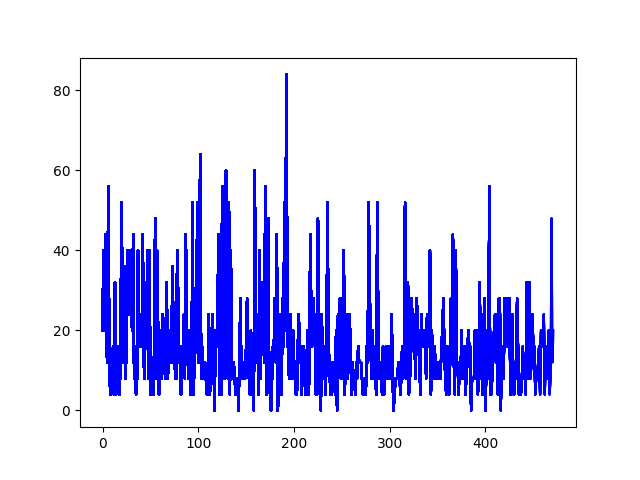
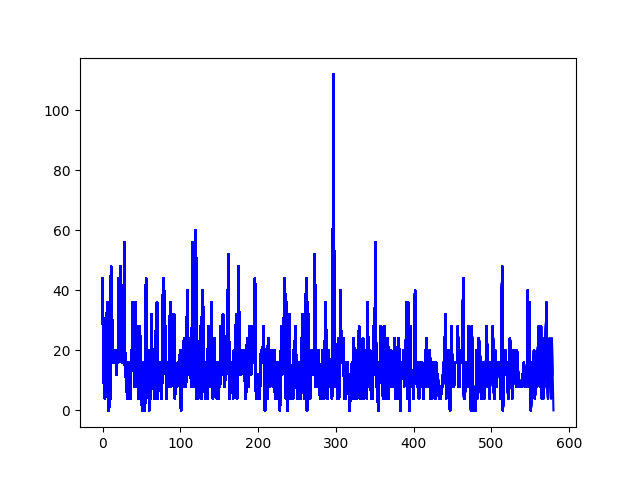
Added more algorithms

diff --git a/rl.py b/rl.py
@@ -1,0 +1,83 @@
+import sys
+import gym
+import pylab
+import numpy as np
+from keras.layers import Dense
+from keras.models import Sequential
+from keras.optimizers import Adam
+
+
+# This is Policy Gradient agent for the Cartpole
+# In this example, we use REINFORCE algorithm which uses monte-carlo update rule
+class REINFORCEAgent:
+    def __init__(self, state_size, action_size):
+        # if you want to see Cartpole learning, then change to True
+        self.render = False
+        self.load_model = False
+        # get size of state and action
+        self.state_size = state_size
+        self.action_size = action_size
+
+        # These are hyper parameters for the Policy Gradient
+        self.discount_factor = 0.99
+        self.learning_rate = 0.001
+        self.hidden1, self.hidden2 = 24, 24
+
+        # create model for policy network
+        self.model = self.build_model()
+
+        # lists for the states, actions and rewards
+        self.states, self.actions, self.rewards = [], [], []
+
+        if self.load_model:
+            self.model.load_weights("./save_model/cartpole_reinforce.h5")
+
+    # approximate policy using Neural Network
+    # state is input and probability of each action is output of network
+    def build_model(self):
+        model = Sequential()
+        model.add(Dense(self.hidden1, input_dim=self.state_size, activation='relu', kernel_initializer='glorot_uniform'))
+        model.add(Dense(self.hidden2, activation='relu', kernel_initializer='glorot_uniform'))
+        model.add(Dense(self.action_size, activation='softmax', kernel_initializer='glorot_uniform'))
+        model.summary()
+        model.compile(loss="categorical_crossentropy", optimizer=Adam(lr=self.learning_rate))
+        return model
+
+    # using the output of policy network, pick action stochastically
+    def get_action(self, state):
+        policy = self.model.predict(state, batch_size=1).flatten()
+        return np.random.choice(self.action_size, 1, p=policy)[0]
+
+    # In Policy Gradient, Q function is not available.
+    # Instead agent uses sample returns for evaluating policy
+    def discount_rewards(self, rewards):
+        discounted_rewards = np.zeros_like(rewards)
+        running_add = 0
+        for t in reversed(range(0, len(rewards))):
+            running_add = running_add * self.discount_factor + rewards[t]
+            discounted_rewards[t] = running_add
+        return discounted_rewards
+
+    # save <s, a ,r> of each step
+    def append_sample(self, state, action, reward):
+        self.states.append(state)
+        self.rewards.append(reward)
+        self.actions.append(action)
+
+    # update policy network every episode
+    def train_model(self):
+        episode_length = len(self.states)
+
+        discounted_rewards = self.discount_rewards(self.rewards)
+        discounted_rewards -= np.mean(discounted_rewards)
+        discounted_rewards /= np.std(discounted_rewards)
+
+        update_inputs = np.zeros((episode_length, self.state_size))
+        advantages = np.zeros((episode_length, self.action_size))
+
+        for i in range(episode_length):
+            update_inputs[i] = self.states[i]
+            advantages[i][self.actions[i]] = discounted_rewards[i]
+
+        self.model.fit(update_inputs, advantages, epochs=1, verbose=0)
+        self.states, self.actions, self.rewards = [], [], []

diff --git a/play.py b/play.py
@@ -1,5 +1,8 @@
 from gamelogic import *
 from ddqn import DoubleDQNAgent
+# from dqn import DQNAgent
+# from ql import QLearningAgent
+# from rl import REINFORCEAgent
 
 from keras.models import Sequential
 from keras.layers import Dense
@@ -38,12 +41,15 @@ if __name__ == "__main__":
 
     state_size = gridSize * gridSize
     action_size = 4
+
     agent = DoubleDQNAgent(state_size, action_size)
 
-    try:
-        agent.model.save_weights("2048_"+str(gridSize)+".h5")
-    except IOError:
-        pass
+    # agent = DoubleDQNAgent(state_size, action_size)
+
+    # try:
+    #     agent.model.save_weights("2048_"+str(gridSize)+".h5")
+    # except IOError:
+    #     pass
 
     done = False
     scores, episodes = [], []
@@ -57,7 +63,10 @@ if __name__ == "__main__":
 
         while True:
             # gameEnv.PrintGrid()
+
             action = agent.get_action(state)
+
+            # action = agent.get_action(state)
             (moveScore, isValid) = gameEnv.Move(action + 1)
 
             next_state = gameEnv.GetFlatGrid()
@@ -65,13 +74,13 @@ if __name__ == "__main__":
 
             if isValid:
                 # Lenth of game award
-                reward = 10.0
+                # reward = 10.0
 
                 # # Rewards for single peak
-                # mat = gameEnv.GetMatrix()
-                # peaks = getPeaks(mat)
-                # if len(peaks) == 1:
-                #     reward += 10.0
+                mat = gameEnv.GetMatrix()
+                peaks = getPeaks(mat)
+                if len(peaks) == 1:
+                    reward += 10.0
         
                 # Reward for step score
                 reward += moveScore
@@ -90,6 +99,7 @@ if __name__ == "__main__":
                 reward = -100.0
 
             agent.append_sample(state, action, reward, next_state, done)
+            # agent.learn(str(state), action, reward, str(next_state))
             agent.train_model()
             state = next_state
 
@@ -103,9 +113,13 @@ if __name__ == "__main__":
                 pylab.plot(episodes, scores, 'b')
                 pylab.savefig("2048_ddqn.png")
 
-                print("episode: {}/{}, score: {}, MaxNumber: {}, memory length: {}, e: {:.2}".format(e, EPISODES, gameEnv.GetScore(), 2**gameEnv.GetMaxNumber(), len(agent.memory), agent.epsilon))
+                # print("episode: {}/{}, score: {}, MaxNumber: {}, memory length: {}, e: {:.2}".format(e, EPISODES, gameEnv.GetScore(), 2**gameEnv.GetMaxNumber(), len(agent.memory), agent.epsilon))
+                print("episode: {}/{}, score: {}, MaxNumber: {}, MemSize {}, e: {:.2}".format(e, EPISODES, gameEnv.GetScore(), 2**gameEnv.GetMaxNumber(), len(agent.memory), agent.epsilon))
                 break
         
-        # save the model
-        if e % 50 == 0:
-            agent.model.save_weights("2048_"+str(gridSize)+".h5")
+        # # save the model
+        # if e % 50 == 0:
+        #     agent.model.save_weights("2048_"+str(gridSize)+".h5")
+
+
+

diff --git a/ql.py b/ql.py
@@ -1,0 +1,49 @@
+import numpy as np
+import random
+from collections import defaultdict
+
+class QLearningAgent:
+    def __init__(self, actions):
+        # actions = [0, 1, 2, 3]
+        self.actions = actions
+        self.learning_rate = 0.01
+        self.discount_factor = 0.9
+        self.epsilon = 1.0
+        self.epsilon_min = 0.01
+        self.epsilon_decay = 0.9999
+        self.q_table = defaultdict(lambda: [0.0, 0.0, 0.0, 0.0])
+
+    # update q function with sample <s, a, r, s'>
+    def learn(self, state, action, reward, next_state):
+        current_q = self.q_table[state][action]
+        # using Bellman Optimality Equation to update q function
+        new_q = reward + self.discount_factor * max(self.q_table[next_state])
+        self.q_table[state][action] += self.learning_rate * (current_q - new_q)
+
+        if self.epsilon > self.epsilon_min:
+            self.epsilon *= self.epsilon_decay
+
+    # get action for the state according to the q function table
+    # agent pick action of epsilon-greedy policy
+    def get_action(self, state):
+        if np.random.rand() < self.epsilon:
+            # take random action
+            action = np.random.choice(self.actions)
+        else:
+            # take action according to the q function table
+            state_action = self.q_table[state]
+            action = self.arg_max(state_action)
+        return action
+
+    @staticmethod
+    def arg_max(state_action):
+        max_index_list = []
+        max_value = state_action[0]
+        for index, value in enumerate(state_action):
+            if value > max_value:
+                max_index_list.clear()
+                max_value = value
+                max_index_list.append(index)
+            elif value == max_value:
+                max_index_list.append(index)
+        return random.choice(max_index_list)
